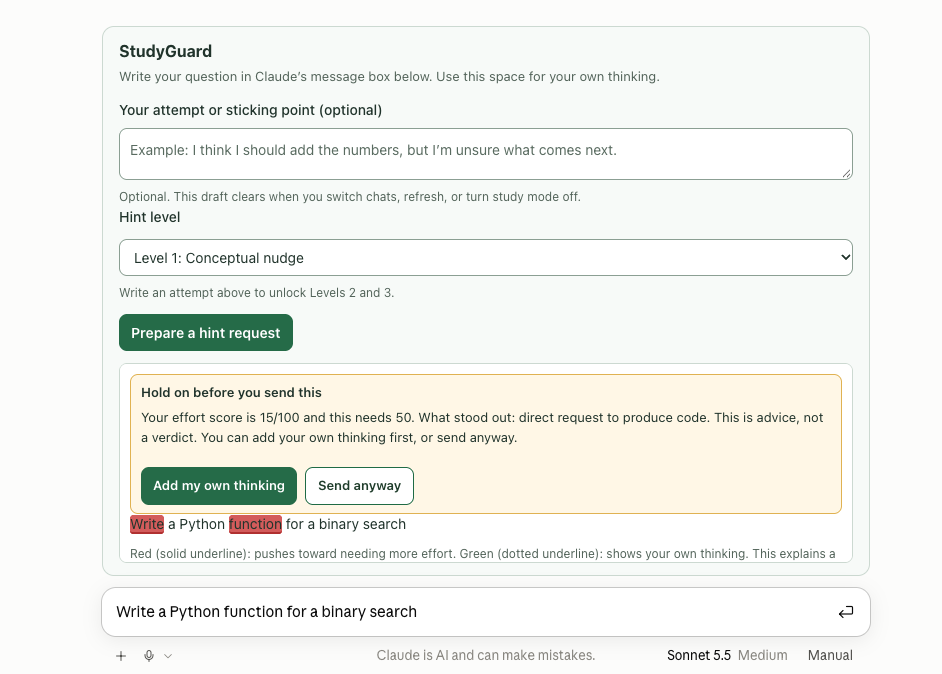
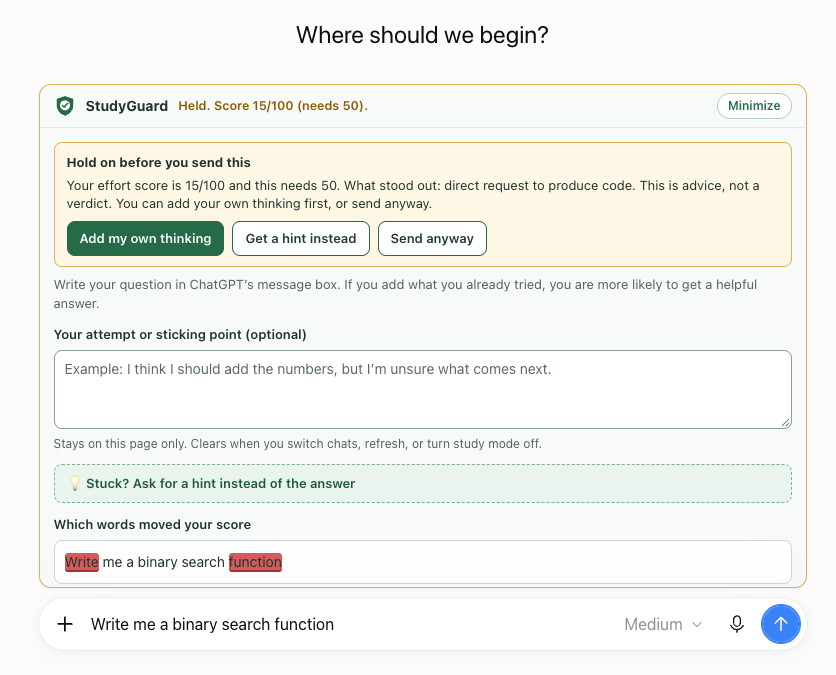
Update README and screenshots for the new UI; add two demo GIFs

diff --git a/README.md b/README.md
@@ -8,7 +8,13 @@ Built for AIPI 590 (Explainable AI), Duke University, by Eugenia Tate.
 
 ![StudyGuard holding a prompt and explaining why](docs/images/hero-soft-block.png)
 
-![Short demo: a prompt is held, the student adds their own attempt, and it passes](docs/images/demo.gif)
+**Path 1: add your own thinking.** The prompt is held, the student adds an attempt, and it passes.
+
+![Demo: a prompt is held, the student adds their own attempt, and it passes](docs/images/demo-attempt.gif)
+
+**Path 2: ask for a hint instead.** The hint request goes straight into the chat box, and StudyGuard lets it through.
+
+![Demo: a prompt is held, the student asks for a hint, and the hint request goes straight into the chat box](docs/images/demo-hint.gif)
 
 ---
 
@@ -43,15 +49,21 @@ The focus is **explainability and responsible design**, not detection or policin
 
 | Feature | What the student sees |
 |---|---|
-| **Soft block** | When Send is pressed on a prompt that scores below the pass mark, a card appears instead of sending. |
+| **Slim bar and soft block** | StudyGuard sits above the message box as one slim bar. When Send is pressed on a prompt that scores below the pass mark, the bar opens and a card appears instead of sending, with three choices: add your own thinking, get a hint, or send anyway. It folds back down after you send. |
 | **Prompt Breakdown Map** (side panel) | Intent (e.g. "Direct code generation") and Student Effort (e.g. "Absent") with a plain-language explanation. |
 | **Word importance** | The exact words that pushed the score toward "answer-seeking" or "effort", found by removing each word and re-scoring. |
 | **Counterfactual hint** | The smallest change that would unlock the prompt, e.g. "Paste the exact error message, or say which line fails and what happened" or "Write at least 5 words of your own approach in the attempt box". Each suggestion is checked by re-scoring. |
-| **Attempt box and hint levels** | A place to type your own attempt or sticking point, which raises the score. Choose how much help to ask for: Level 1 is a conceptual nudge; Levels 2 and 3 unlock once you have written an attempt. |
+| **Attempt box and hint builder** | A place to type your own attempt or sticking point, which raises the score. "Stuck? Ask for a hint" writes a request that asks the AI for one hint at a time and puts it straight into the chat box. Level 1 is a conceptual nudge; Levels 2 and 3 unlock once you have written an attempt. StudyGuard never holds its own hint requests. |
 | **Learning Journal** (opt-in) | A record of prompts, attempts and outcomes you can export as Markdown or PDF to hand in with homework. |
 | **Analytics dashboard** | Hold rate, recoveries (held, then improved), score distribution and most common triggers; export to CSV or PDF. Built only from a log that never stores prompt text. |
 
-![StudyGuard analytics dashboard: outcomes by day and effort-score distribution](docs/images/analytics-dash.png)
+![StudyGuard analytics dashboard: headline rates and outcomes by day](docs/images/sg-analytics.png)
+
+![Effort-score distribution and the rules that fire most](docs/images/effort-scores.png)
+
+| The slim bar (collapsed) | The toolbar popup |
+|---|---|
+| ![StudyGuard as a slim bar above the message box](docs/images/collapsed-bar.png) | ![StudyGuard popup with study mode, journal and tools](docs/images/popup.png) |
 
 Supported sites: **chatgpt.com** and **claude.ai** (Chrome 116 or newer, because of the side panel).
 
@@ -104,7 +116,7 @@ Type each prompt into ChatGPT or Claude and press Send.
 
 Open the side panel (popup, "Open Prompt Breakdown Map") to see the breakdown after a hold.
 
-![Prompt Breakdown Map in the side panel](docs/images/side-panel-breakdown.png)
+![Prompt Breakdown Map in the side panel](docs/images/side-panel.png)
 
 ## Results
 

diff --git a/docs/store-listing.md b/docs/store-listing.md
@@ -55,14 +55,13 @@ Helps students notice and add their own thinking to prompts sent to ChatGPT and 
 - Certify: not sold, not used for unrelated purposes, not used for creditworthiness.
 
 ## Screenshots to upload (1280x800 or 640x400, up to 5)
-1. A held prompt with red words and the "Hold on" card (`docs/images/hero-soft-block.png`, retake after this UI update)
-2. The slim collapsed bar above the message box
-3. The Prompt Breakdown Map side panel (`docs/images/side-panel-breakdown.png`)
-4. The analytics dashboard (`docs/images/analytics-dash.png`)
-5. The popup settings
+1. A held prompt with red words and the "Hold on" card (`docs/images/hero-soft-block.png`)
+2. The slim collapsed bar above the message box (`docs/images/collapsed-bar.png`)
+3. The Prompt Breakdown Map side panel (`docs/images/side-panel.png`)
+4. The analytics dashboard (`docs/images/sg-analytics.png`)
+5. The popup settings (`docs/images/popup.png`)
 Optional promo tile (440x280): the logo and the line "Know why your prompt was held."
 
 ## Review checklist
-- [ ] Retake screenshots with the new panel
 - [ ] Zip the extension folder without `tests/`, `eval/`, `python/`, `train/`, `docs/`, `.git`, `.github`
 - [ ] Confirm the manifest version matches the release tag
